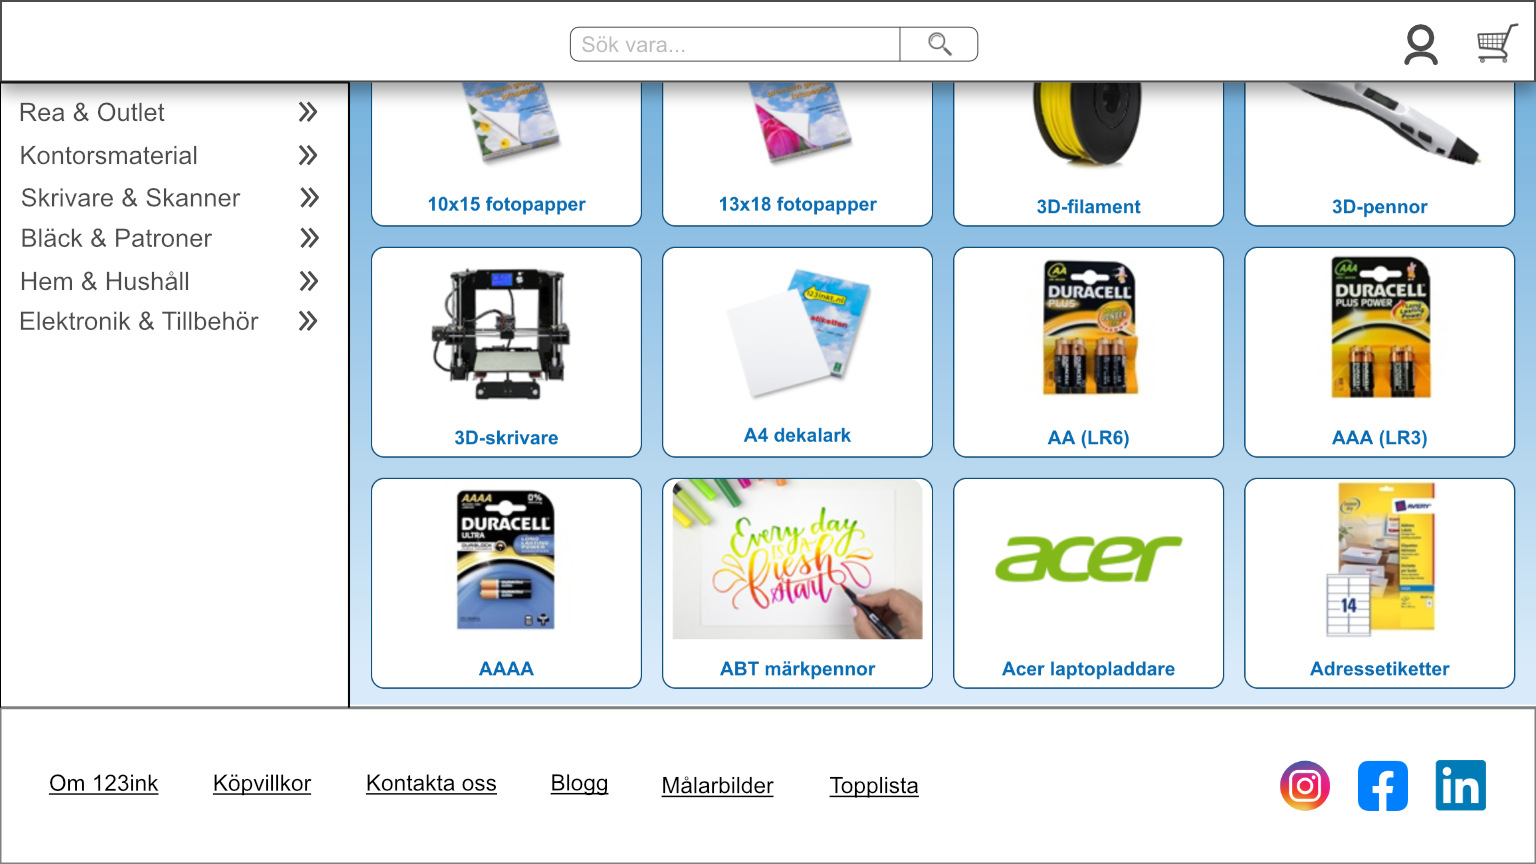
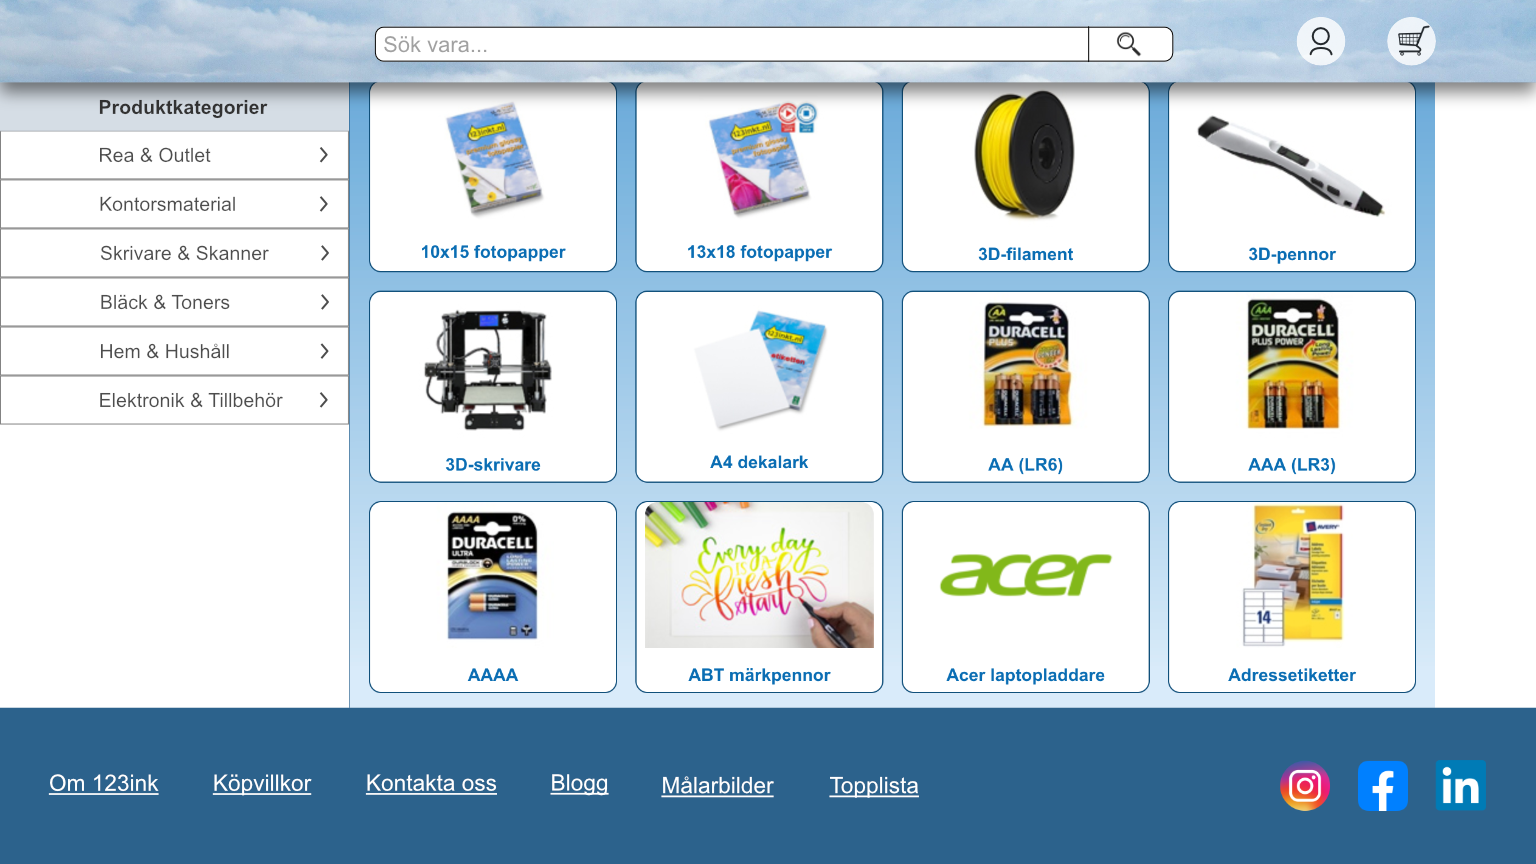
Updated desktop prototype

diff --git a/styles.css b/styles.css
@@ -206,7 +206,7 @@ a:hover {
 #desktop-landing__home {
     position: absolute;
     top: 83px;
-    left: 20px;
+    left: 90px;
 }
 
 #desktop-landing__home > img {
@@ -220,19 +220,19 @@ a:hover {
 
 #desktop-landing__category {
     position: absolute;
-    top: 198px;
-    left: 10px;
-    width: 290px;
-    height: 30px;
+    top: 330px;
+    left: 82px;
+    width: 230px;
+    height: 33px;
     color: rgba(0, 0, 0, 0);
 }
 
 #desktop-landing__category-alt {
     position: absolute;
-    top: 432px;
-    left: 347px;
-    width: 227px;
-    height: 173px;
+    top: 408px;
+    left: 346px;
+    width: 210px;
+    height: 158px;
     color: rgba(0, 0, 0, 0);
 }
 
@@ -240,7 +240,7 @@ a:hover {
 #desktop-footer__home {
     position: absolute;
     top: 13px;
-    left: 20px;
+    left: 90px;
 }
 
 #desktop-footer__home > img {
@@ -253,10 +253,10 @@ a:hover {
 
 #desktop-footer__category {
     position: absolute;
-    top: 125px;
-    left: 10px;
-    width: 290px;
-    height: 30px;
+    top: 259px;
+    left: 82px;
+    width: 230px;
+    height: 33px;
     color: rgba(0, 0, 0, 0);
 }
 
@@ -264,7 +264,7 @@ a:hover {
 #desktop-category__home {
     position: absolute;
     top: 83px;
-    left: 20px;
+    left: 90px;
 }
 
 #desktop-category__home > img {
